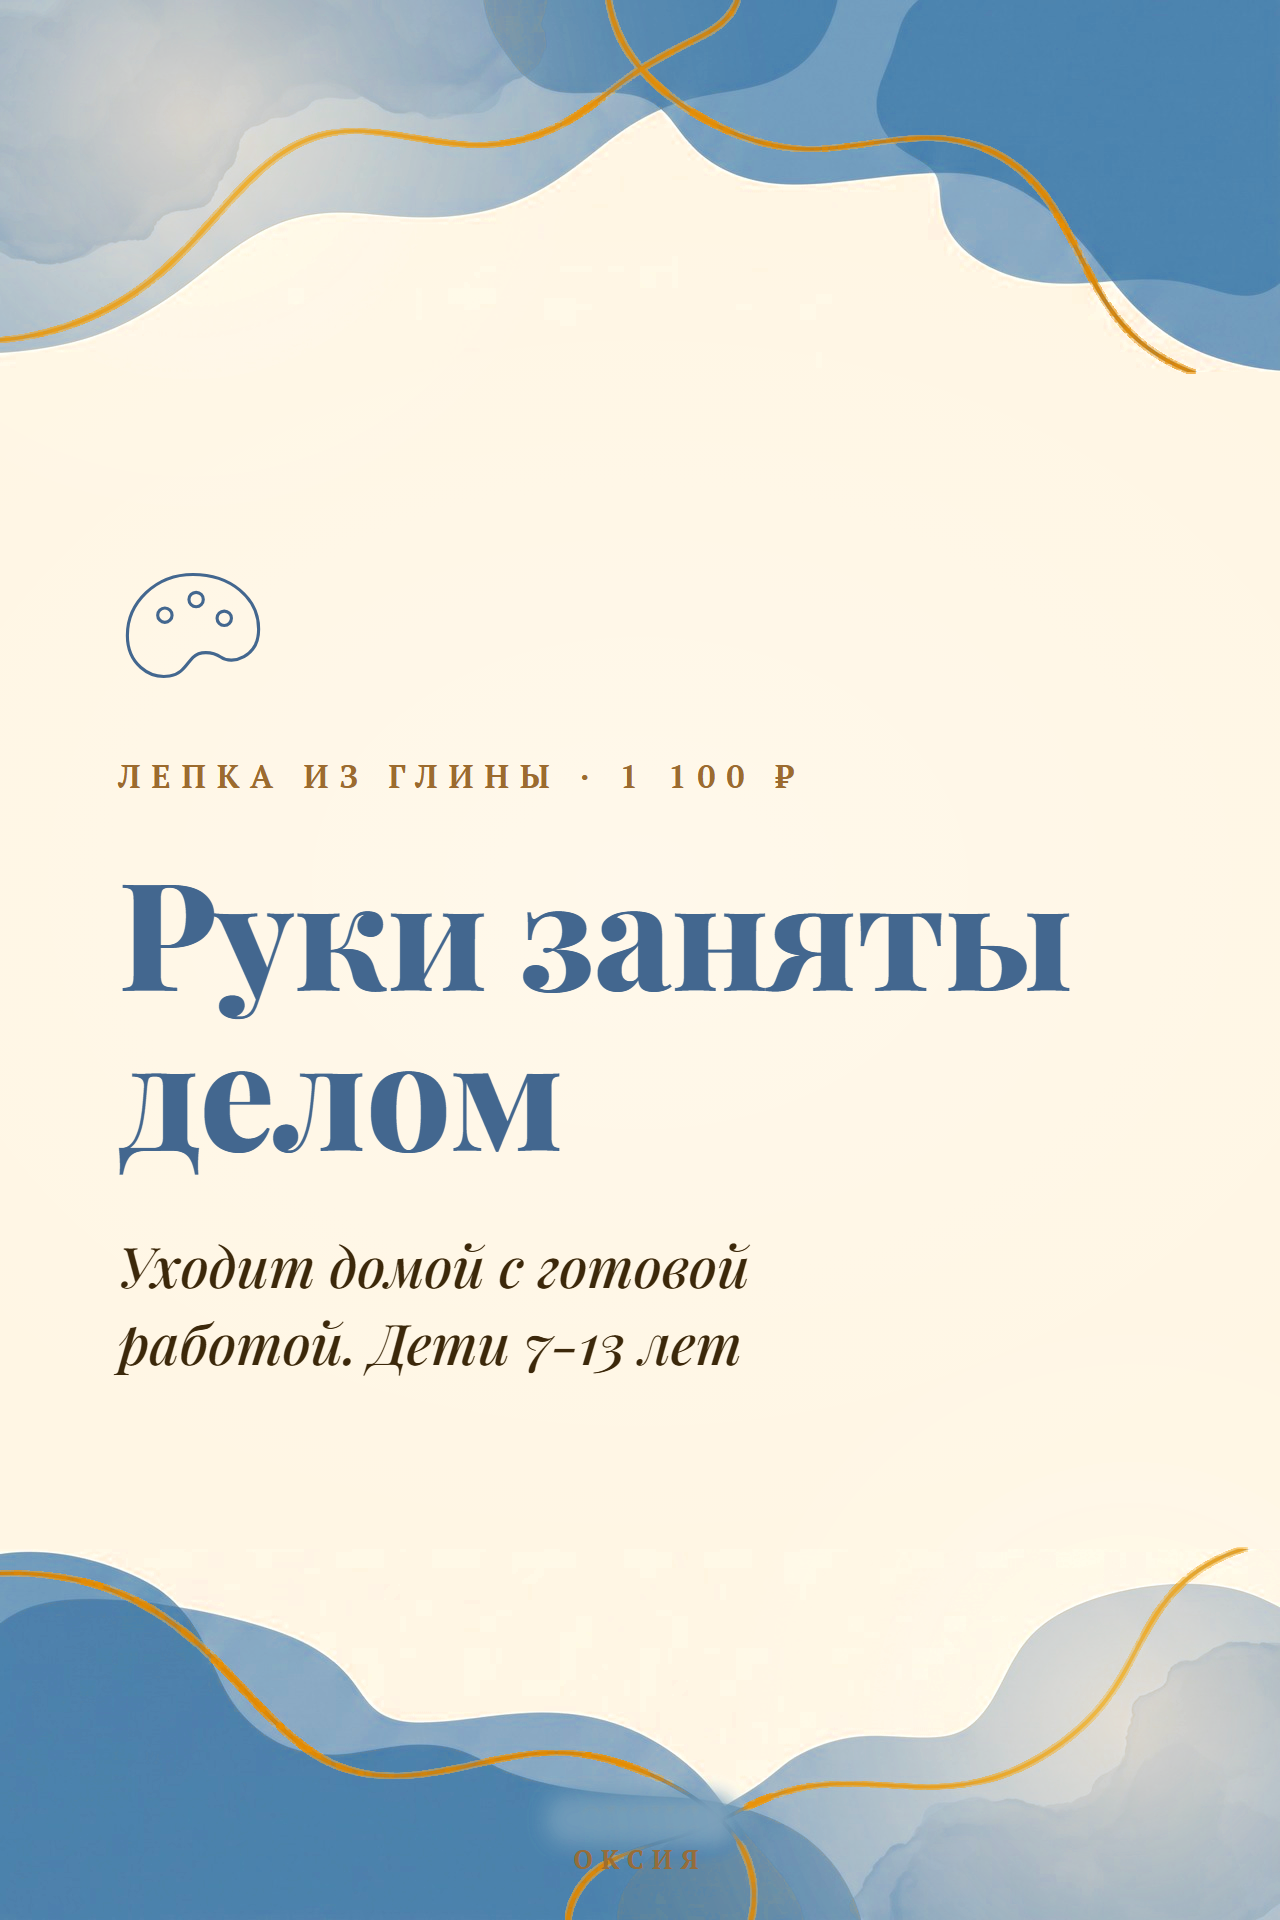
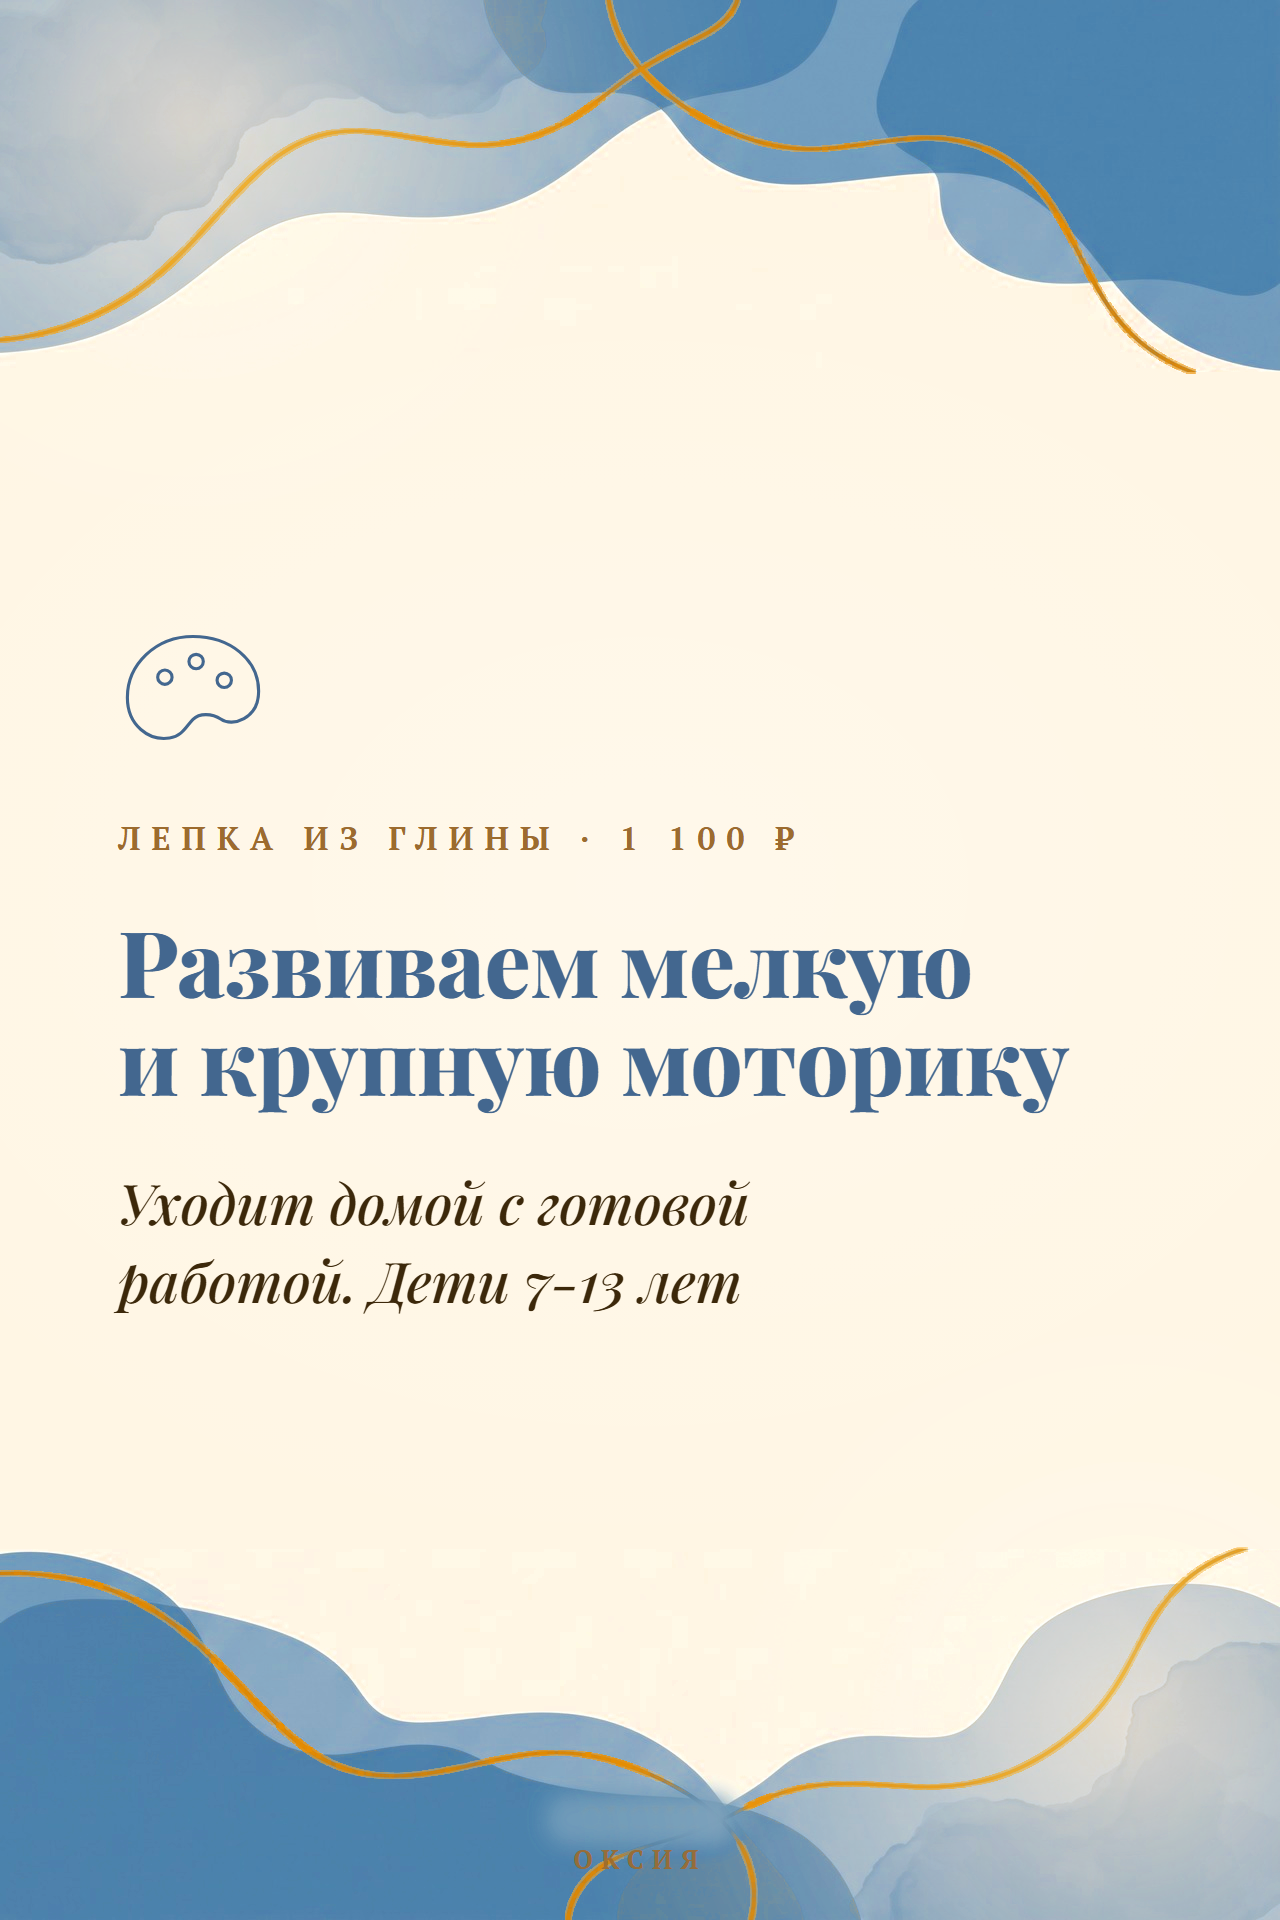
Правки: 13, 26, 27, 28, 29, 33, обложка 5
- 13: убрано упоминание церковнославянского (не относится к ФГОС)
- 26: chip про проигрыши вместо повтора заголовка
- 27: "Развиваем мелкую и крупную моторику" вместо "Руки заняты делом"
- 28: "Дети 6-10 лет" перенесено на отдельную строку (висячая строка)
- 29: "Любое направление" + "выбираете то, что нравится ребёнку", убрана фраза про школу
- 33: "Индивидуальный подход" вместо непонятного "Один ребёнок, один звук"
- обложка 5: "Как проходит день в школе" вместо "День идёт по расписанию"

diff --git a/story-preview/_build/slide-bright.html b/story-preview/_build/slide-bright.html
@@ -244,7 +244,7 @@ const S = {
   <div class="kick">Базовый блок</div>
   <h1 class="disp">Русский, чтение,<br>арифметика</h1>
   <div class="hair"></div>
-  <div class="lead">И предметы по ФГОС:<br>история, церковнославянский</div>` },
+  <div class="lead">И предметы по ФГОС:<br>история</div>` },
 
 14:{ bg:'tb-bright-gold', accent:'var(--green-muted)', icon:I.people, isize:'182px', ds:'150px', html:`
   <div class="kick">Маленький класс</div>
@@ -318,24 +318,24 @@ const S = {
 26:{ bg:'tb-bright-gold', accent:'var(--red-muted)', icon:I.blocks, isize:'132px', ds:'150px', html:`
   <div class="kick">Шахматы · 1 100 ₽</div>
   <h1 class="disp">Два хода<br>вперёд</h1>
-  <div class="chip">Учимся думать<br>на два хода вперёд</div>
+  <div class="chip">Учимся спокойно<br>переживать проигрыши</div>
   <div class="cap">с тренером, дети 7-11 лет</div>` },
 
-27:{ bg:'tb-bright', align:'left', accent:'var(--blue-muted)', icon:I.palette, isize:'150px', ds:'150px', html:`
+27:{ bg:'tb-bright', align:'left', accent:'var(--blue-muted)', icon:I.palette, isize:'150px', ds:'92px', html:`
   <div class="kick">Лепка из глины · 1 100 ₽</div>
-  <h1 class="disp">Руки заняты<br>делом</h1>
+  <h1 class="disp">Развиваем мелкую<br>и крупную моторику</h1>
   <div class="lead">Уходит домой с готовой<br>работой. Дети 7-13 лет</div>` },
 
 28:{ bg:'tb-bright-gold', accent:'var(--green-muted)', icon:I.book, isize:'150px', ds:'116px', html:`
   <div class="kick">Творческое чтение · 1 100 ₽</div>
   <h1 class="disp">Читаем то,<br>что выбрали дети</h1>
-  <div class="cap">обсуждаем книги, слышим и принимаем мнение каждого. Дети 6-10 лет</div>` },
+  <div class="cap">обсуждаем книги, слышим и принимаем мнение каждого<br>Дети 6-10 лет</div>` },
 
 29:{ bg:'tb-bright', accent:'var(--blue-muted)', icon:I.hallmark, isize:'140px', ds:'120px', html:`
   <div class="kick">Формат</div>
-  <h1 class="disp">Можно на одно<br>направление</h1>
+  <h1 class="disp">Любое<br>направление</h1>
   <div class="hair b"></div>
-  <div class="sub">школа для этого не нужна</div>
+  <div class="sub">выбираете то, что нравится ребёнку</div>
   <div class="cap">расписание подберём под возраст</div>` },
 
 30:{ bg:'tb-bright', align:'left', accent:'var(--red-muted)', icon:I.bell, isize:'150px', ds:'150px', html:`
@@ -351,9 +351,9 @@ const S = {
   <h1 class="disp">Верят в то,<br>чему учат</h1>
   <div class="cap">методику РКШ педагоги выбрали сами</div>` },
 
-33:{ bg:'tb-bright', align:'left', accent:'var(--red-muted)', icon:I.sound, isize:'150px', ds:'120px', html:`
+33:{ bg:'tb-bright', align:'left', accent:'var(--red-muted)', icon:I.sound, isize:'150px', ds:'92px', html:`
   <div class="kick">Логопед</div>
-  <h1 class="disp">Один ребёнок,<br>один звук</h1>
+  <h1 class="disp">Индивидуальный<br>подход</h1>
   <div class="lead">Ищем причину и работаем<br>именно с ней. Дети 3-10 лет</div>` },
 
 34:{ bg:'tb-bright-gold', accent:'var(--green-muted)', icon:I.blocks, isize:'132px', ds:'96px', html:`

diff --git a/story-preview/_build/story-covers-bright.html b/story-preview/_build/story-covers-bright.html
@@ -112,7 +112,7 @@ const S = {
     bottom:{type:'facts', text:'отзывы родителей на карточке ОКСИИ'},
     accent:'var(--blue-muted)', bg:'bg-tb-bright.png' },
 
-5:{ title:'День идёт<br>по расписанию', titleSize:'118px', sub:'класс до 12 человек',
+5:{ title:'Как проходит<br>день в школе', titleSize:'118px', sub:'класс до 12 человек',
     chip:'Перерывы, прогулка и домашние<br>задания по возрасту',
     bottom:{type:'facts', text:'короткая обратная связь родителям'},
     accent:'var(--red-muted)', bg:'bg-tb-bright-gold.png' },
